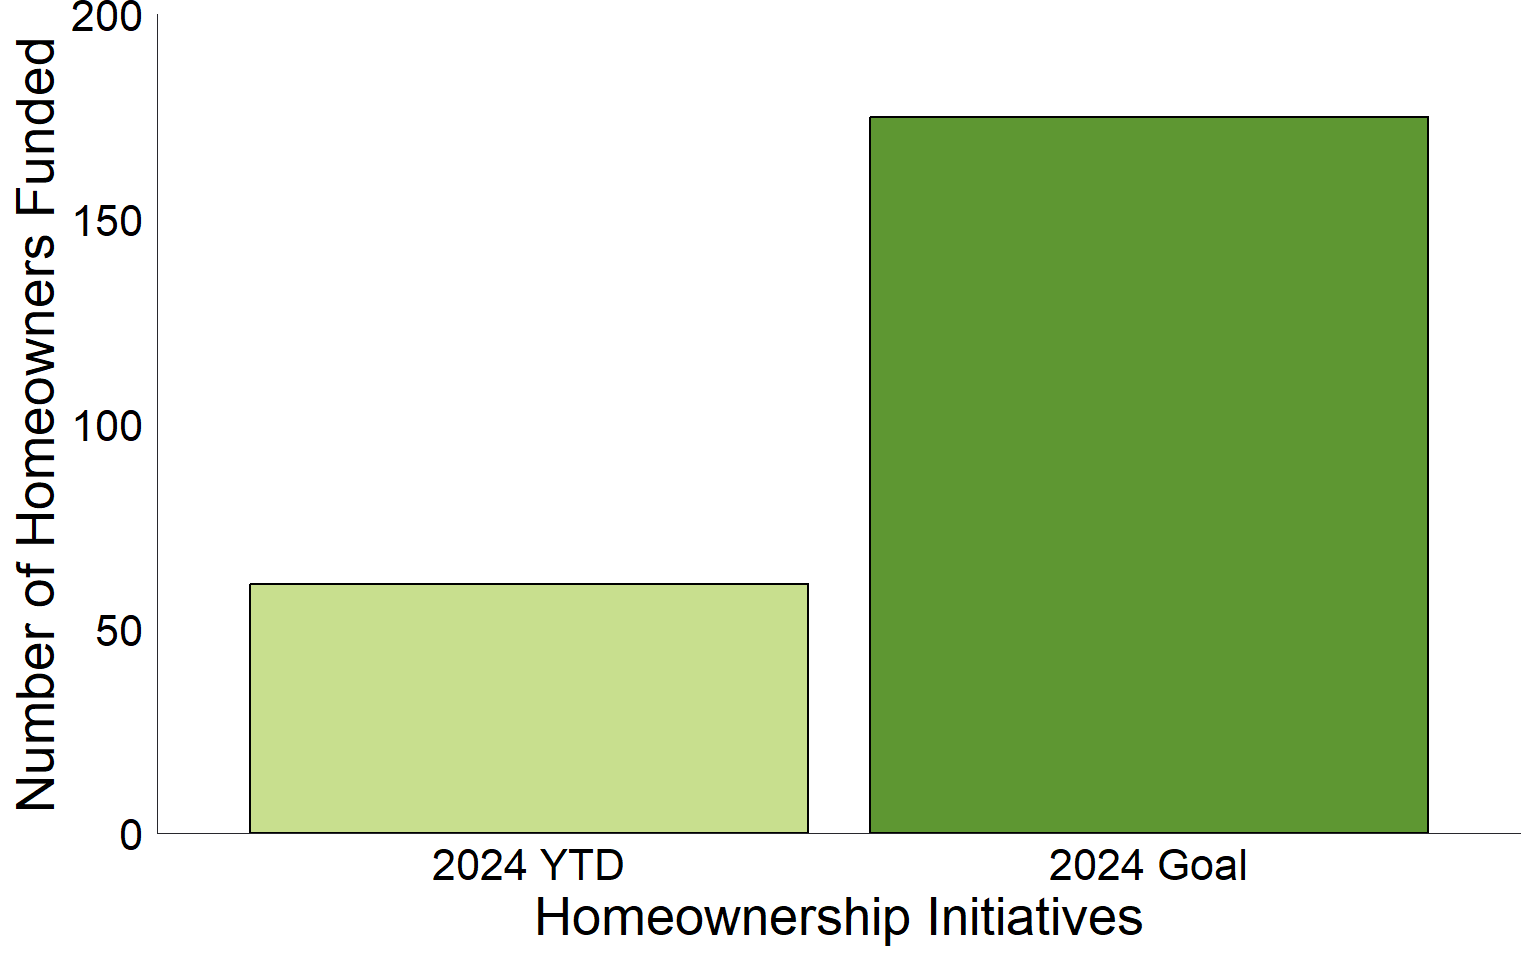
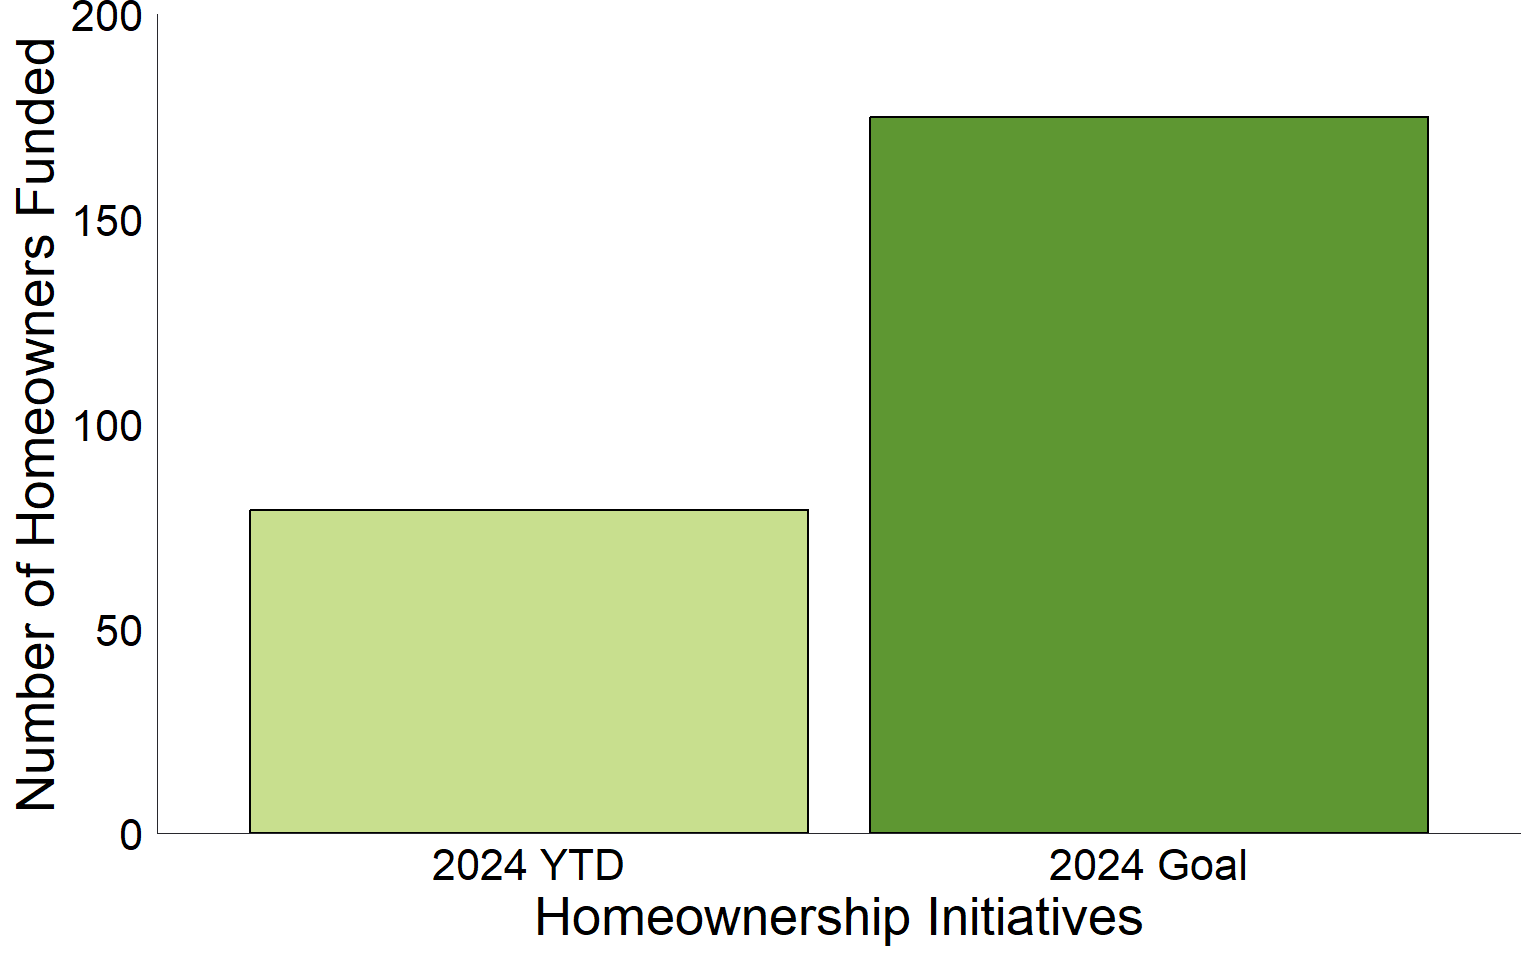
Built site for gh-pages

Changed region(s): [[0.1562, 0.5312, 0.5312, 0.625]]

diff --git a/index.html b/index.html
@@ -59,7 +59,7 @@ ul.task-list li input[type="checkbox"] {
 
       <div class="navbar-title">
         <div class="navbar-title-text"><a href="#">Invest Atlanta KPI Dashboard</a></div>
-        <div class="navbar-subtitle">Data last updated 5/17/24</div>
+        <div class="navbar-subtitle">Data last updated 6/11/24</div>
         
       </div>
     </div>
@@ -84,7 +84,7 @@ grid-auto-rows: minmax(0, 1fr);">
 Direct Investment
 </p>
 <p class="value-box-value">
-$3.5 Million
+$3.9 Million
 </p>
 </div>
 </div>
@@ -100,7 +100,7 @@ $3.5 Million
 Small Businesses Supported
 </p>
 <p class="value-box-value">
-571
+713
 </p>
 </div>
 </div>
@@ -116,7 +116,7 @@ Small Businesses Supported
 Disinvested Neighborhoods
 </p>
 <p class="value-box-value">
-31%
+32%
 </p>
 </div>
 </div>
@@ -132,7 +132,7 @@ Disinvested Neighborhoods
 Small Business Loans and Grants Awarded
 </p>
 <p class="value-box-value">
-39
+47
 </p>
 </div>
 </div>
@@ -228,7 +228,7 @@ $26 Million
 C-PACE Clean Energy Investment
 </p>
 <p class="value-box-value">
-$6.2 Million
+$13.1 Million
 </p>
 </div>
 </div>
@@ -342,7 +342,7 @@ Affordable Housing Units Financed
 Homeownership Incentives (OOR and DPA)
 </p>
 <p class="value-box-value">
-61
+79
 </p>
 </div>
 </div>
@@ -422,7 +422,7 @@ grid-auto-rows: minmax(0, 1fr);">
 Closed Business Development Projects
 </p>
 <p class="value-box-value">
-16
+20
 </p>
 </div>
 </div>
@@ -438,7 +438,7 @@ Closed Business Development Projects
 Total Jobs Impact
 </p>
 <p class="value-box-value">
-1555
+2002
 </p>
 </div>
 </div>
@@ -454,7 +454,7 @@ Total Jobs Impact
 New Good Jobs Created
 </p>
 <p class="value-box-value">
-1229
+1435
 </p>
 </div>
 </div>
@@ -470,7 +470,7 @@ New Good Jobs Created
 Business Consultations
 </p>
 <p class="value-box-value">
-541
+659
 </p>
 </div>
 </div>
@@ -534,7 +534,7 @@ grid-auto-rows: minmax(0, 1fr);">
 Total Capital Investment
 </p>
 <p class="value-box-value">
-$278 Million
+$306 Million
 </p>
 </div>
 </div>
@@ -550,7 +550,7 @@ $278 Million
 Total Economic Impact
 </p>
 <p class="value-box-value">
-$618 Million
+$686 Million
 </p>
 </div>
 </div>
@@ -566,7 +566,7 @@ $618 Million
 Investment in Disinvested Neighborhoods
 </p>
 <p class="value-box-value">
-61.5%
+62%
 </p>
 </div>
 </div>
@@ -582,7 +582,7 @@ Investment in Disinvested Neighborhoods
 People Engaged via Community Events
 </p>
 <p class="value-box-value">
-3754
+4290
 </p>
 </div>
 </div>
@@ -619,7 +619,7 @@ grid-auto-rows: minmax(0, 1fr);">
 <div class="card-body html-fill-item html-fill-container">
 <div class="quarto-figure quarto-figure-center html-fill-item html-fill-container">
 <figure class="figure">
-<p><img src="2024_jan-apr_wins.png" class="img-fluid figure-img" style="width:85.0%"></p>
+<p><img src="wins_map_20240610.png" class="img-fluid figure-img" style="width:85.0%"></p>
 <figcaption>Click to expand</figcaption>
 </figure>
 </div>
